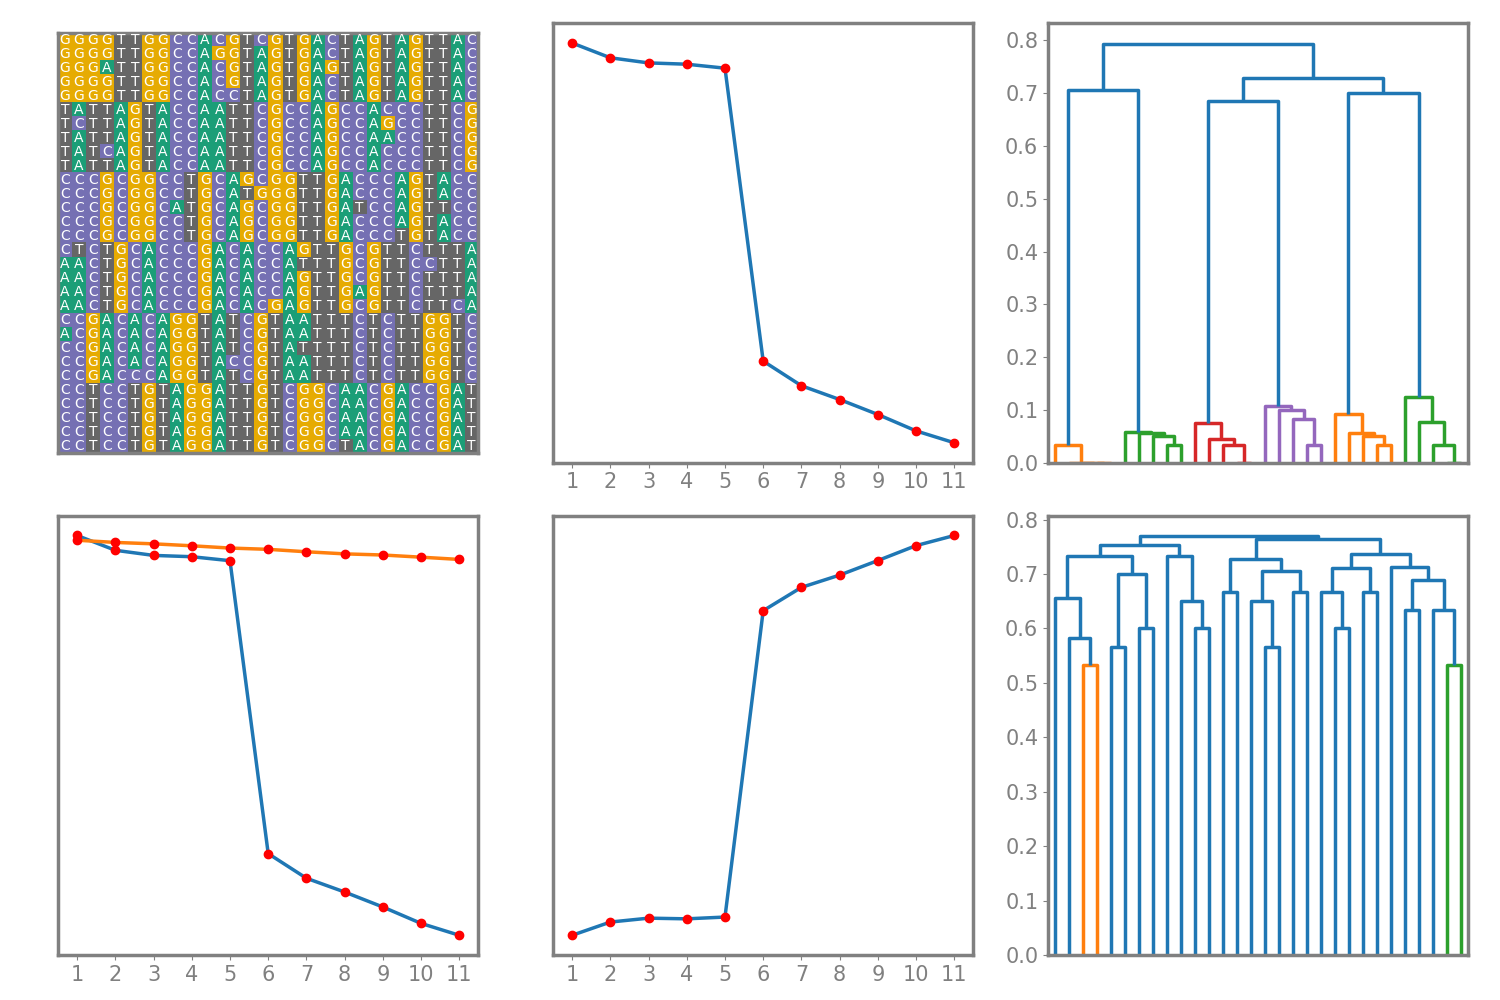
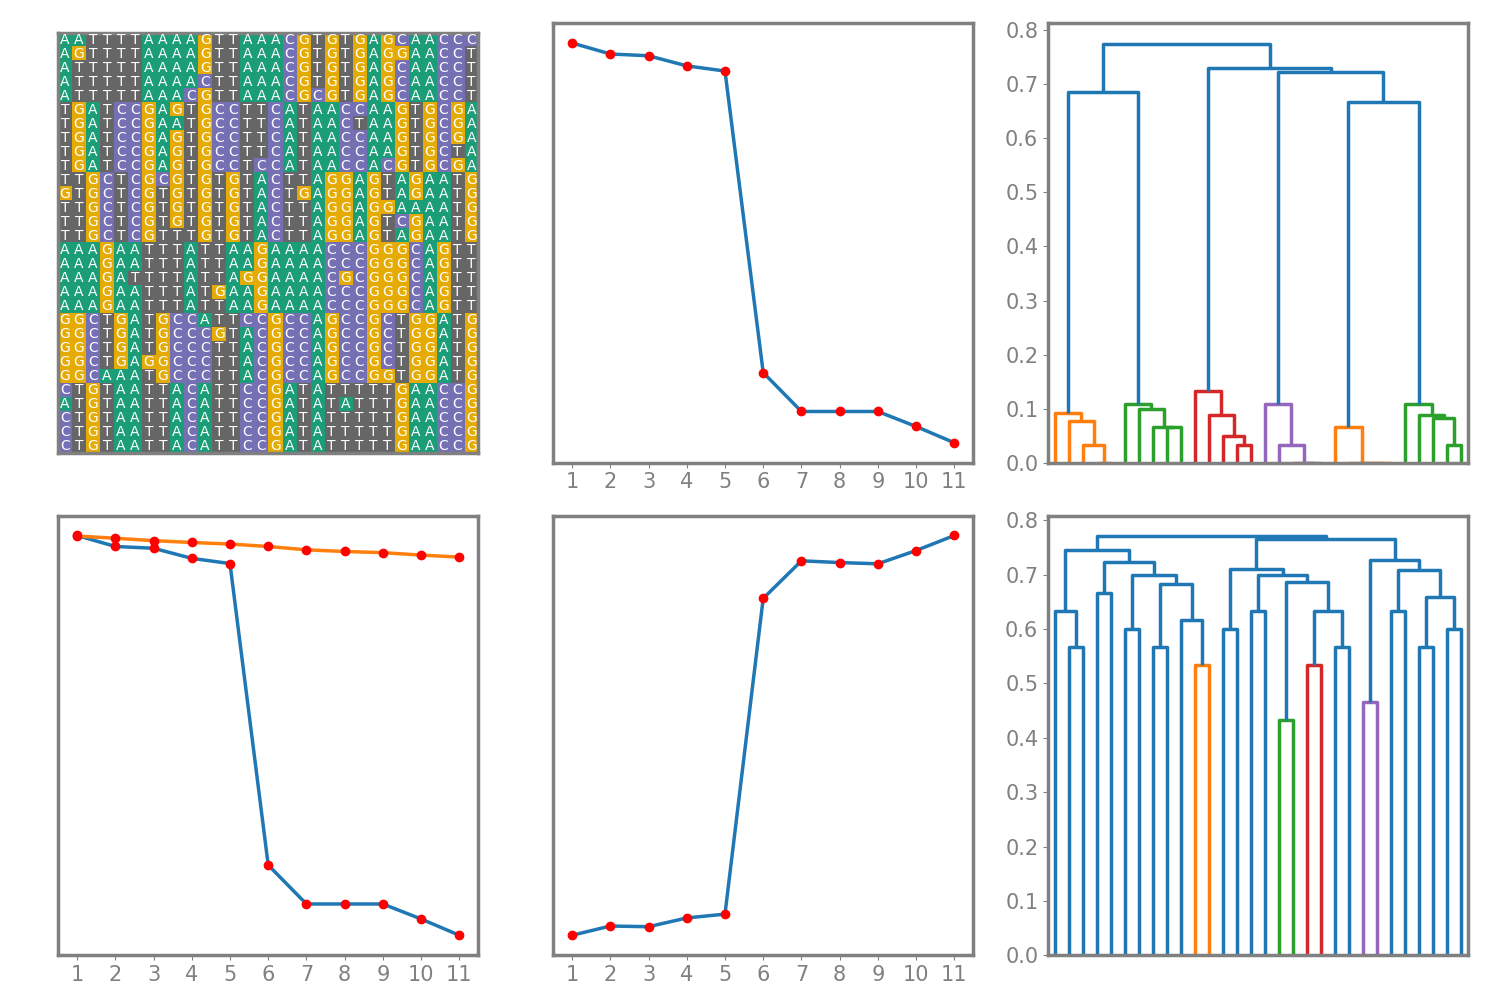
data+graph plots added to Simple and Genome

diff --git a/Genome/src/genPlot.py b/Genome/src/genPlot.py
@@ -4,6 +4,7 @@ from genGenerate import NUCL_VEC
 # import enviroment modules:
 import matplotlib.pyplot as plt 
 from scipy.cluster import hierarchy
+import networkx as nx
 
 import matplotlib.ticker as mtick
 from matplotlib import rcParams
@@ -18,19 +19,24 @@ rcParams['lines.linewidth'] = 2.5
 rcParams['axes.labelsize'] = 'xx-large'
 rcParams['axes.labelcolor'] = 'grey'
 
-def plotRawPanGenome(panGenome, fname=None):
+def plotRawPanGenome(panGenome, fname=None, show=True):
 
 	fig, ax = plt.subplots()
 
 	createDataPlot(panGenome, fig, ax)
 
+	n_genomes = len(panGenome[:,0])
+
+	ax.set_yticks(range(n_genomes))
 	ax.set_xlabel('nucleotides')
 	ax.set_ylabel('genomes')
+	plt.tight_layout()
 
 	if fname is not None:
 		plt.savefig(fname)
 
-	plt.show()
+	if show is True:
+		plt.show()
 
 def createDataPlot(panGenome, fig, ax):
 
@@ -68,8 +74,8 @@ def plotJumpTest(data, jump_obj, fname=None):
 
 	hierarchy.dendrogram(
 		jump_obj.linkage_mat, 
-        truncate_mode='level', 
-        p=jump_obj.maxclusters,
+        truncate_mode='none', 
+        #p=jump_obj.maxclusters,
 		above_threshold_color='C0',
 		ax=axes[0,2])
 	axes[0,2].set_xticks([])
@@ -91,8 +97,8 @@ def plotJumpTest(data, jump_obj, fname=None):
 
 	hierarchy.dendrogram(
 		jump_obj.null_linkage_mat, 
-        truncate_mode='level', 
-        p=jump_obj.maxclusters,
+        truncate_mode='none', 
+        #p=jump_obj.maxclusters,
 		above_threshold_color='C0',
 		ax=axes[1,2])
 	axes[1,2].set_xticks([])
@@ -102,3 +108,47 @@ def plotJumpTest(data, jump_obj, fname=None):
 		plt.savefig(fname)
 
 	plt.show()
+
+def plotClustersGraph(labels, fname=None):
+	'''
+	Plots a set of clusters in graph form
+		+ clusterLabels is output from 
+			Agglomerative clutering object
+	'''
+
+	# get number of clusters:
+	nClusters = max(labels) + 1
+	nPoints   = len(labels)
+
+	# construct graph:
+	G = nx.Graph()
+	# add points:
+	G.add_nodes_from(range(nPoints))
+	# add clusters: 
+	G.add_nodes_from(range(nClusters)) 
+		# cluster ids are nPoints,...,Npoints + nClusters - 1
+
+	# re-index the points according to their clusters:
+	subGraphNodes = []
+	for i in range(nClusters):
+		subGraphNodes = subGraphNodes + [[]]
+	for i in range(nPoints):
+		j = labels[i]
+		subGraphNodes[j] = subGraphNodes[j] + [i]
+	# join the points to their cluster nodes:
+	for i in range(nClusters):
+		for node in subGraphNodes[i]:
+			G.add_edge(nPoints+i, node)
+
+	# print it:
+	A = nx.nx_agraph.to_agraph(G)
+	for i in range(nPoints,nPoints+nClusters):
+		A.get_node(i).attr['style'] = 'filled'
+		A.get_node(i).attr['fillcolor']="#C62E3A"
+		A.get_node(i).attr['label'] = ''
+
+	A.node_attr['shape']='circle'
+	A.layout() # default to neato
+	A.layout(prog='circo') # use circo
+
+	A.draw(fname)

diff --git a/Simple/src/simple.py b/Simple/src/simple.py
@@ -9,43 +9,39 @@ import numpy as np
 import pandas as pd
 from sklearn.cluster import AgglomerativeClustering
 import networkx as nx
+import sys
 
 def main():
 
-	# fix fake data parameters:
-	n1, n2, n3 = 6, 5, 6		# number of points in each cluster
-	R1, R2, R3 = 0.1, 0.1, 0.1	# max radius of each cluster
-
 	# generate clusters:
-	X1 = sgt.genCluster((0.3,0.7), R1, n1)
-	X2 = sgt.genCluster((0.1,0.3), R2, n2)
-	X3 = sgt.genCluster((0.7,0.5), R3, n3)
-
-	# create data set:
-	n = n1 + n2 + n3	# number of points in fake data set
-	X = np.concatenate((X1,X2,X3), axis=0)
+	data_mat = np.concatenate((
+		sgt.genCluster((0.2,0.5), 0.15, 6),
+		sgt.genCluster((0.6,0.7), 0.15, 5),
+		sgt.genCluster((0.7,0.2), 0.15, 3)),
+		axis=0)
 
 	# convert data to network:
-	DX = snt.getDistanceMatrix(X)
-	GX = snt.graphFromDistMatrix(DX)
-
+	dist_mat = snt.getDistanceMatrix(data_mat)
+	#GX = snt.graphFromDistMatrix(DX)
 
 	# perform clustering on the network:
 	#clustering = AgglomerativeClustering(n_clusters=3).fit(X)	# with raw data
 	clustering = AgglomerativeClustering(
 		n_clusters=3, 
 		linkage='average', 
-		affinity='precomputed').fit(DX)	# with distance matrix
+		affinity='precomputed').fit(dist_mat)	# with distance matrix
 
 	# plot it:
-	#spt.plotData(X)
+	#spt.plotData(X, annotate=True)
 	#spt.plotData(X, labels=clustering.labels_)
 	#spt.plotData(X, labels=clustering.labels_, fName='../media/clusters.pdf')
 	#spt.plotGraph(GX)
 
-	spt.plotData(X, fName="../media/pointCloud.png")
-	spt.plotClustersGraph(clustering.labels_)
-	spt.plotPointsGraph(X)
+	#spt.plotData(X, fName="../media/pointCloud.png")
+	#spt.plotClustersGraph(clustering.labels_, fname='../media/clusters.graph.png')
+	#spt.plotPointsGraph(X)
+
+	spt.plotClustersAndGraph(data_mat,clustering.labels_, ffolder='../media/', flabel=sys.argv[1])
 
 if __name__ == '__main__':
 	main()

diff --git a/Simple/src/simPlot.py b/Simple/src/simPlot.py
@@ -17,15 +17,31 @@ rcParams['xtick.color'] = 'grey'
 rcParams['ytick.color'] = 'grey'
 rcParams['lines.linewidth'] = 2.5
 
-def plotData(data, labels=None, fname=None, annotate=False):
+def plotData(
+	data, 
+	labels=None, 
+	fname=None, 
+	annotate=False, 
+	show=True,
+	pointSize=None):
 	'''
 	Plots data set on fixed [0,1]^2 grid
 	'''
-	plt.scatter(data[:,0], data[:,1], c=labels)
+	plt.scatter(
+		data[:,0], 
+		data[:,1], 
+		edgecolors='r', 
+		s=pointSize,
+		facecolors='none')
 
 	if annotate==True:
 		for i in range(len(data)):
-			plt.annotate(f" {i}", (data[i,0], data[i,1])) 
+			plt.annotate(
+				f"{i}", 
+				(data[i,0]+0.02, data[i,1]+0.02),
+				 color='grey',
+				 weight='bold',
+				 size=15) 
 
 	plt.xlim(0,1)
 	plt.ylim(0,1)
@@ -33,10 +49,11 @@ def plotData(data, labels=None, fname=None, annotate=False):
 	plt.yticks([], [])
 
 	# save figure:
-	if fname != None:
+	if fname is not None:
 		plt.savefig(fname)
 
-	plt.show()
+	if show is True:
+		plt.show()
 
 def plotGraph(G):
 	'''
@@ -78,7 +95,7 @@ def plotPointsGraph(data):
 	A.draw(dataDir+label+'.gv')
 
 
-def plotClustersGraph(labels, fname):
+def plotClustersGraph(labels, fname=None):
 	'''
 	Plots a set of clusters in graph form
 		+ clusterLabels is output from 
@@ -272,3 +289,16 @@ def plotJumpTest(data, jump_obj, fname=None):
 		plt.savefig(fname)
 
 	plt.show()
+
+
+def plotClustersAndGraph(data, labels, ffolder, flabel):
+
+
+	plotData(
+		data,
+		annotate=True,
+		fname=ffolder+flabel+'1.png',
+		show=False,
+		pointSize=400)
+
+	plotClustersGraph(labels, fname=ffolder+flabel+'2.png')

diff --git a/Genome/src/cluster.py b/Genome/src/cluster.py
@@ -1,25 +1,20 @@
-# import enviroment modules:
-import random as rd
+# Modules
+## enviroment:
 import numpy as np
-from sklearn.cluster import AgglomerativeClustering
+import sys
 
-# import local modules:
+## local:
 import genGenerate as ggt
 import genPlot as gpt
 import genNetwork as gnt
-import genStats as gst
+from sklearn.cluster import AgglomerativeClustering
 
 def main():
 
-	# program parameters:
 	N_g = 30	# length of each genome in base pairs
 	N_p	= 5	# size of pan genome
-	K   = 11	# max number of clusters
-	B 	= 5
 
-	# generate a genome:	
-	#p = ggt.genPanGenome(N_g, N_p*6)
-	#p = ggt.genGenomeCluster(N_g, N_p, 30)
+	# generate data:
 	p = np.concatenate((
 		ggt.genGenomeCluster(N_g, N_p, 4),
 		ggt.genGenomeCluster(N_g, N_p, 4),
@@ -28,19 +23,18 @@ def main():
 		ggt.genGenomeCluster(N_g, N_p, 4),
 		ggt.genGenomeCluster(N_g, N_p, 4)), axis=0)
 
+	# cluster:
 	dist_mat = gnt.getDistanceMatrix(p)
-
-	# cluster data:
 	clustering = AgglomerativeClustering(
-			n_clusters=2, 
+			n_clusters=6, 
 			linkage='average', 
 			affinity='precomputed').fit(dist_mat)
 
-	#gpt.plotRawPanGenome(p, fname='../media/clusters4.png')
-
-	jump_obj = gst.JumpTest(K,B).fit(dist_mat, N_g)
-	gpt.plotJumpTest(p,jump_obj, fname='../media/jump6clusters.png')
-
+	# print:
+	folder = '../media/'
+	label = sys.argv[1]
+	gpt.plotRawPanGenome(p, fname=folder+label+'1.png', show=False)
+	gpt.plotClustersGraph(clustering.labels_, fname=folder+label+'2.png')
 
 if __name__ == '__main__':
 	main()
